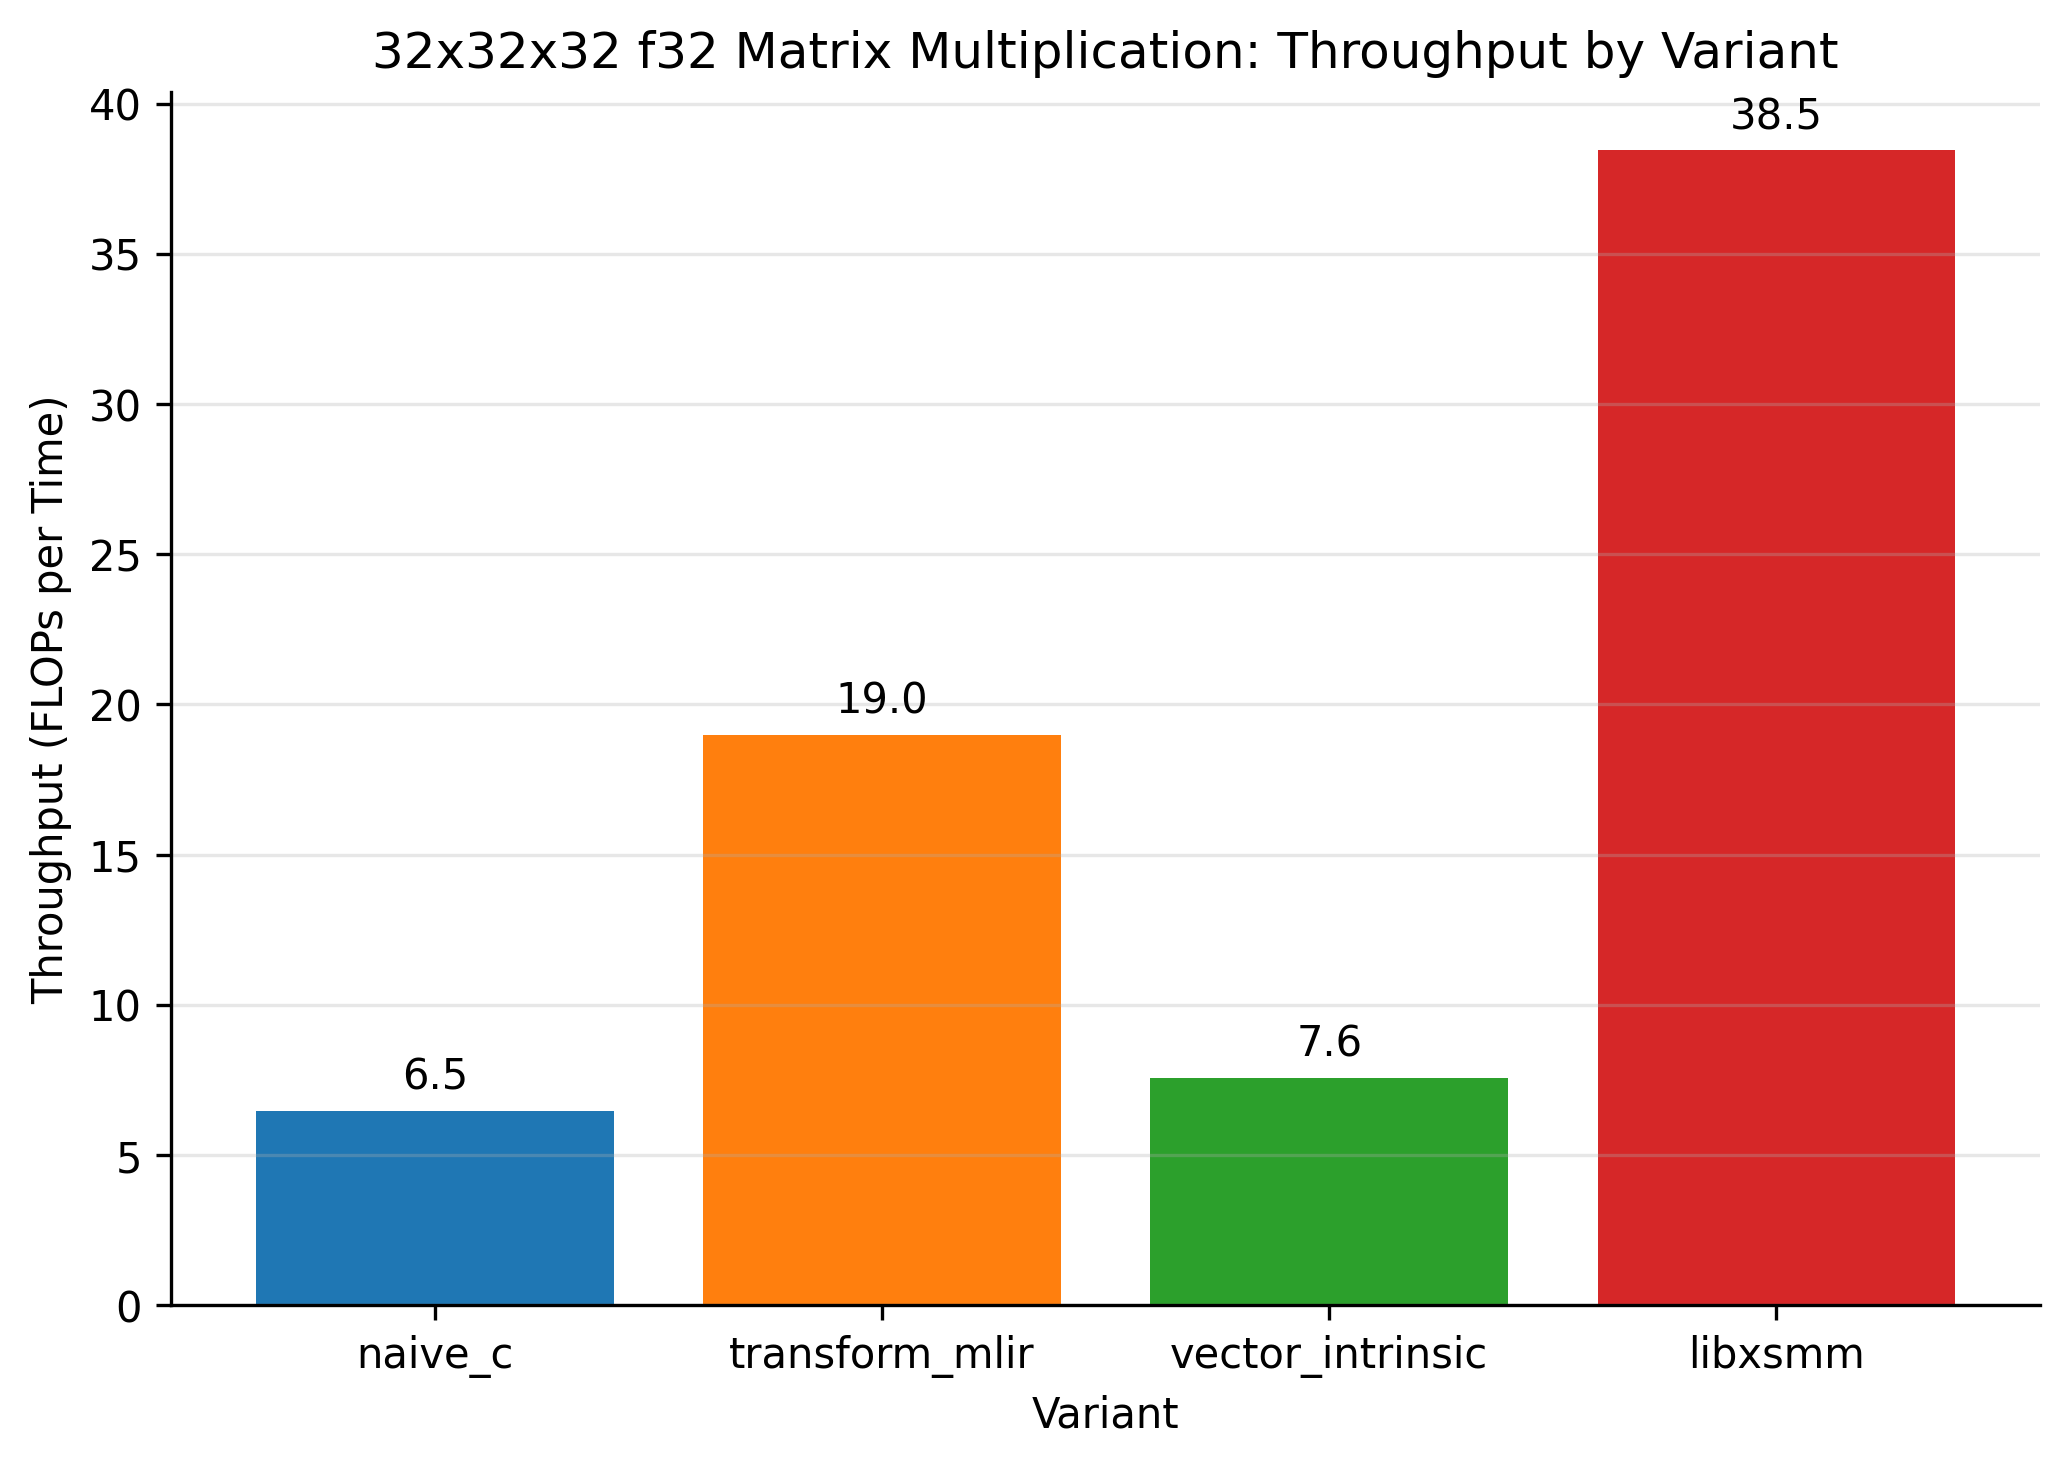
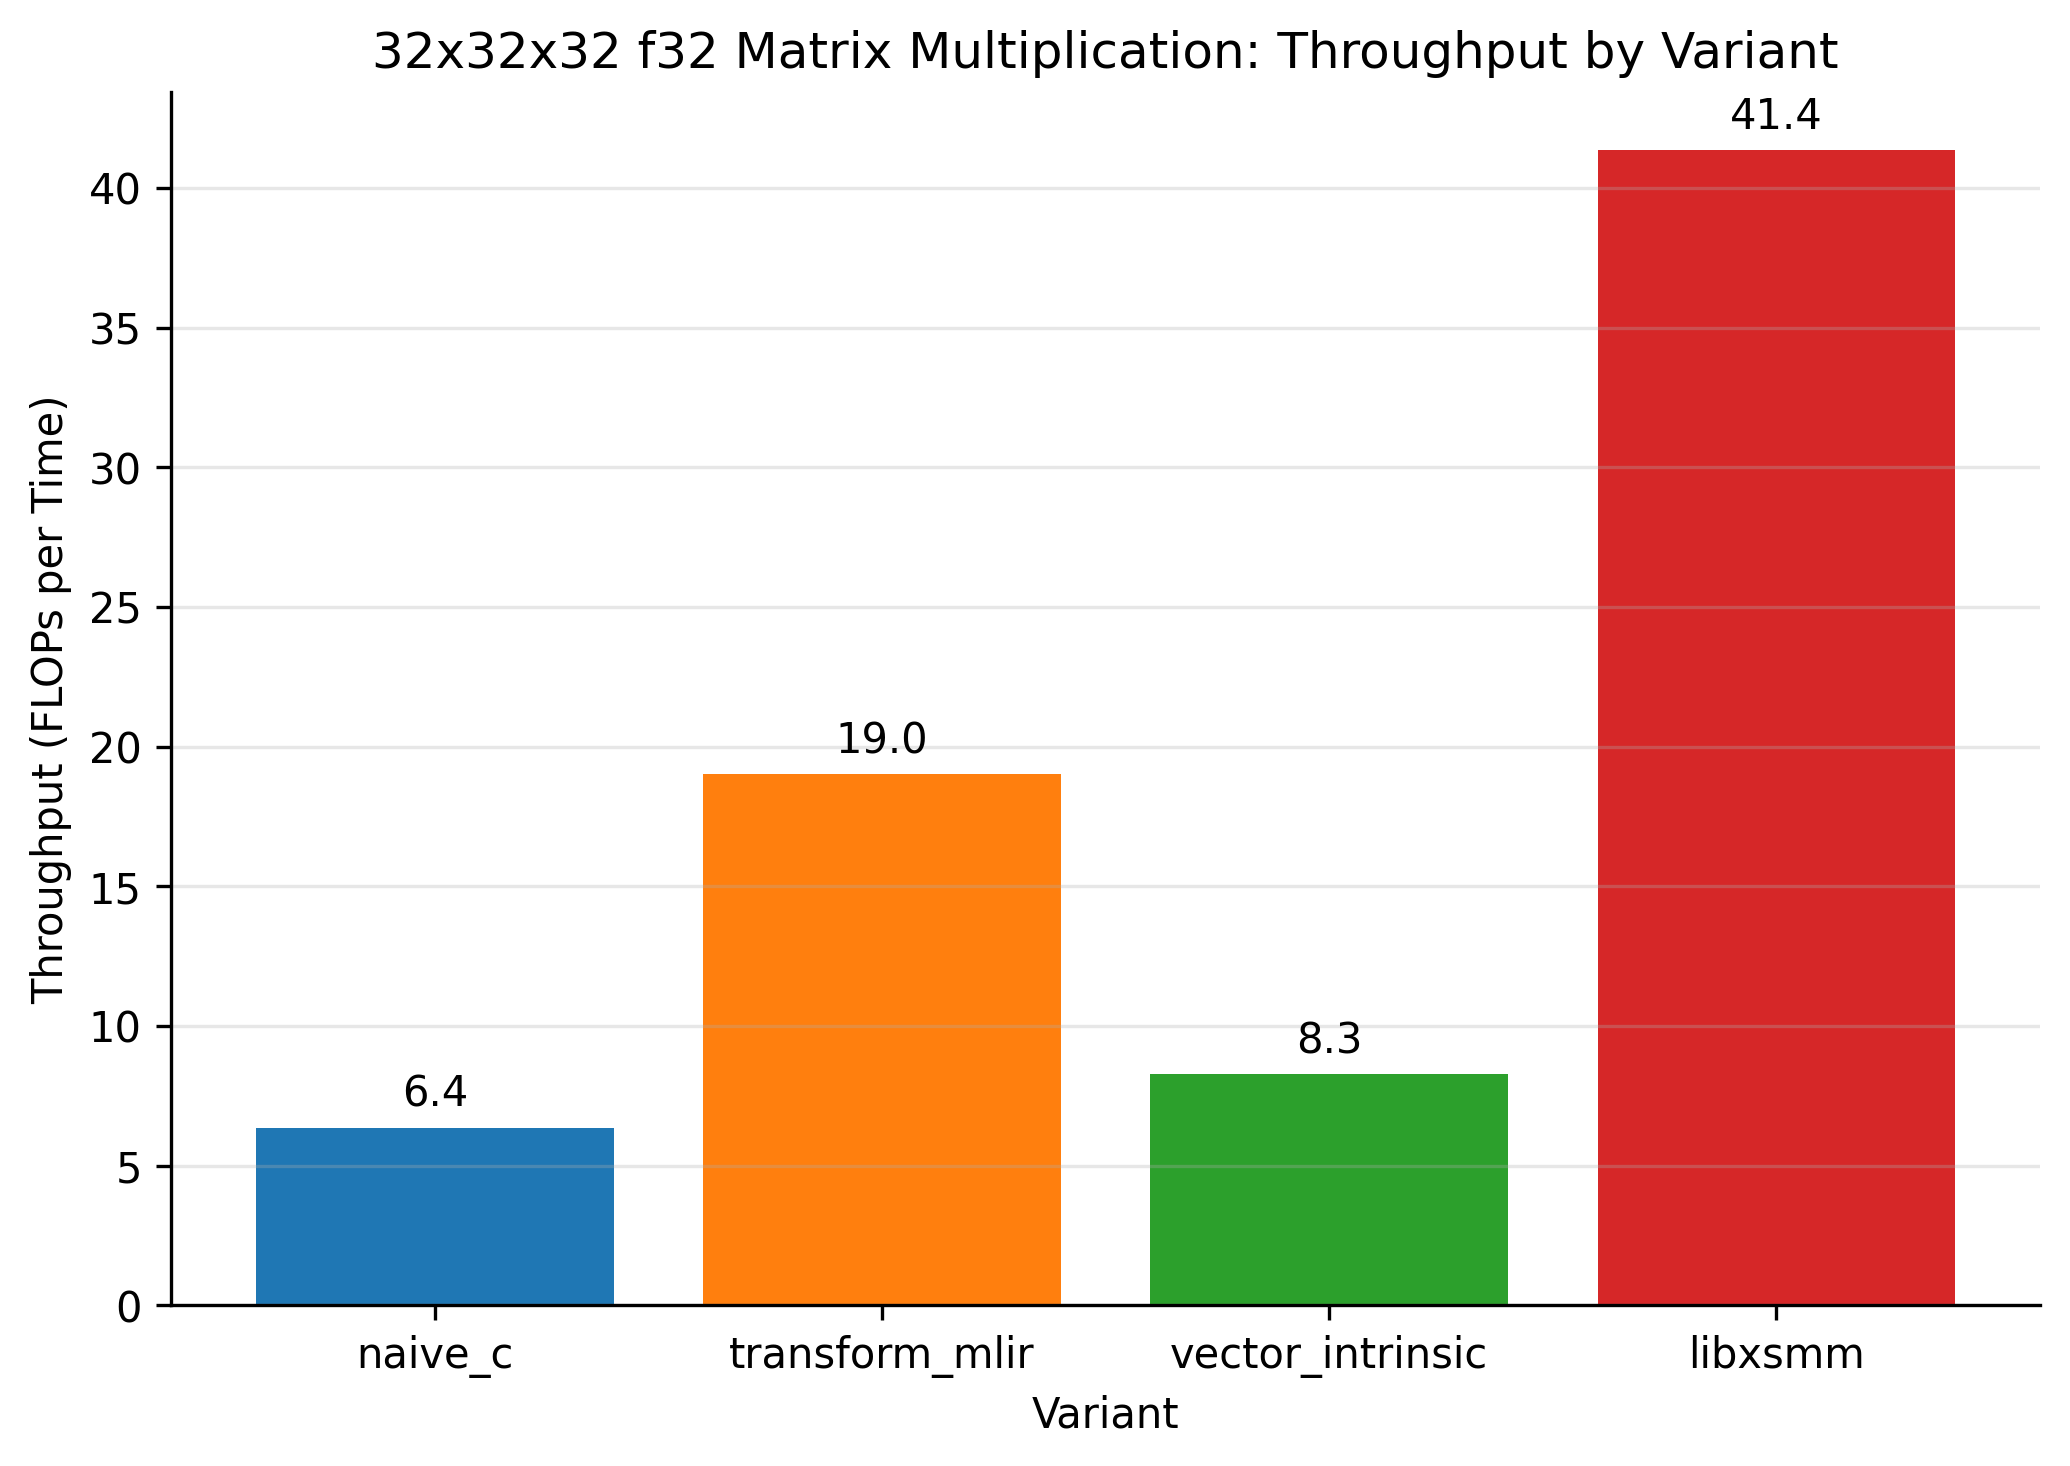
mac-compatible align

diff --git a/kernels/matmul_rowmaj/time.c b/kernels/matmul_rowmaj/time.c
@@ -49,9 +49,10 @@ int hardware_counters_available(void) {
 
 int main() {
 
-  DTYPE *A = aligned_alloc(64, M * K * sizeof(DTYPE));
-  DTYPE *B = aligned_alloc(64, K * N * sizeof(DTYPE));
-  DTYPE *C = aligned_alloc(64, M * N * sizeof(DTYPE));
+  DTYPE *A, *B, *C;
+  posix_memalign((void **)&A, 64, M * K * sizeof(DTYPE));
+  posix_memalign((void **)&B, 64, K * N * sizeof(DTYPE));
+  posix_memalign((void **)&C, 64, M * N * sizeof(DTYPE));
   
   long long values[1];
   struct timespec ts_start;
